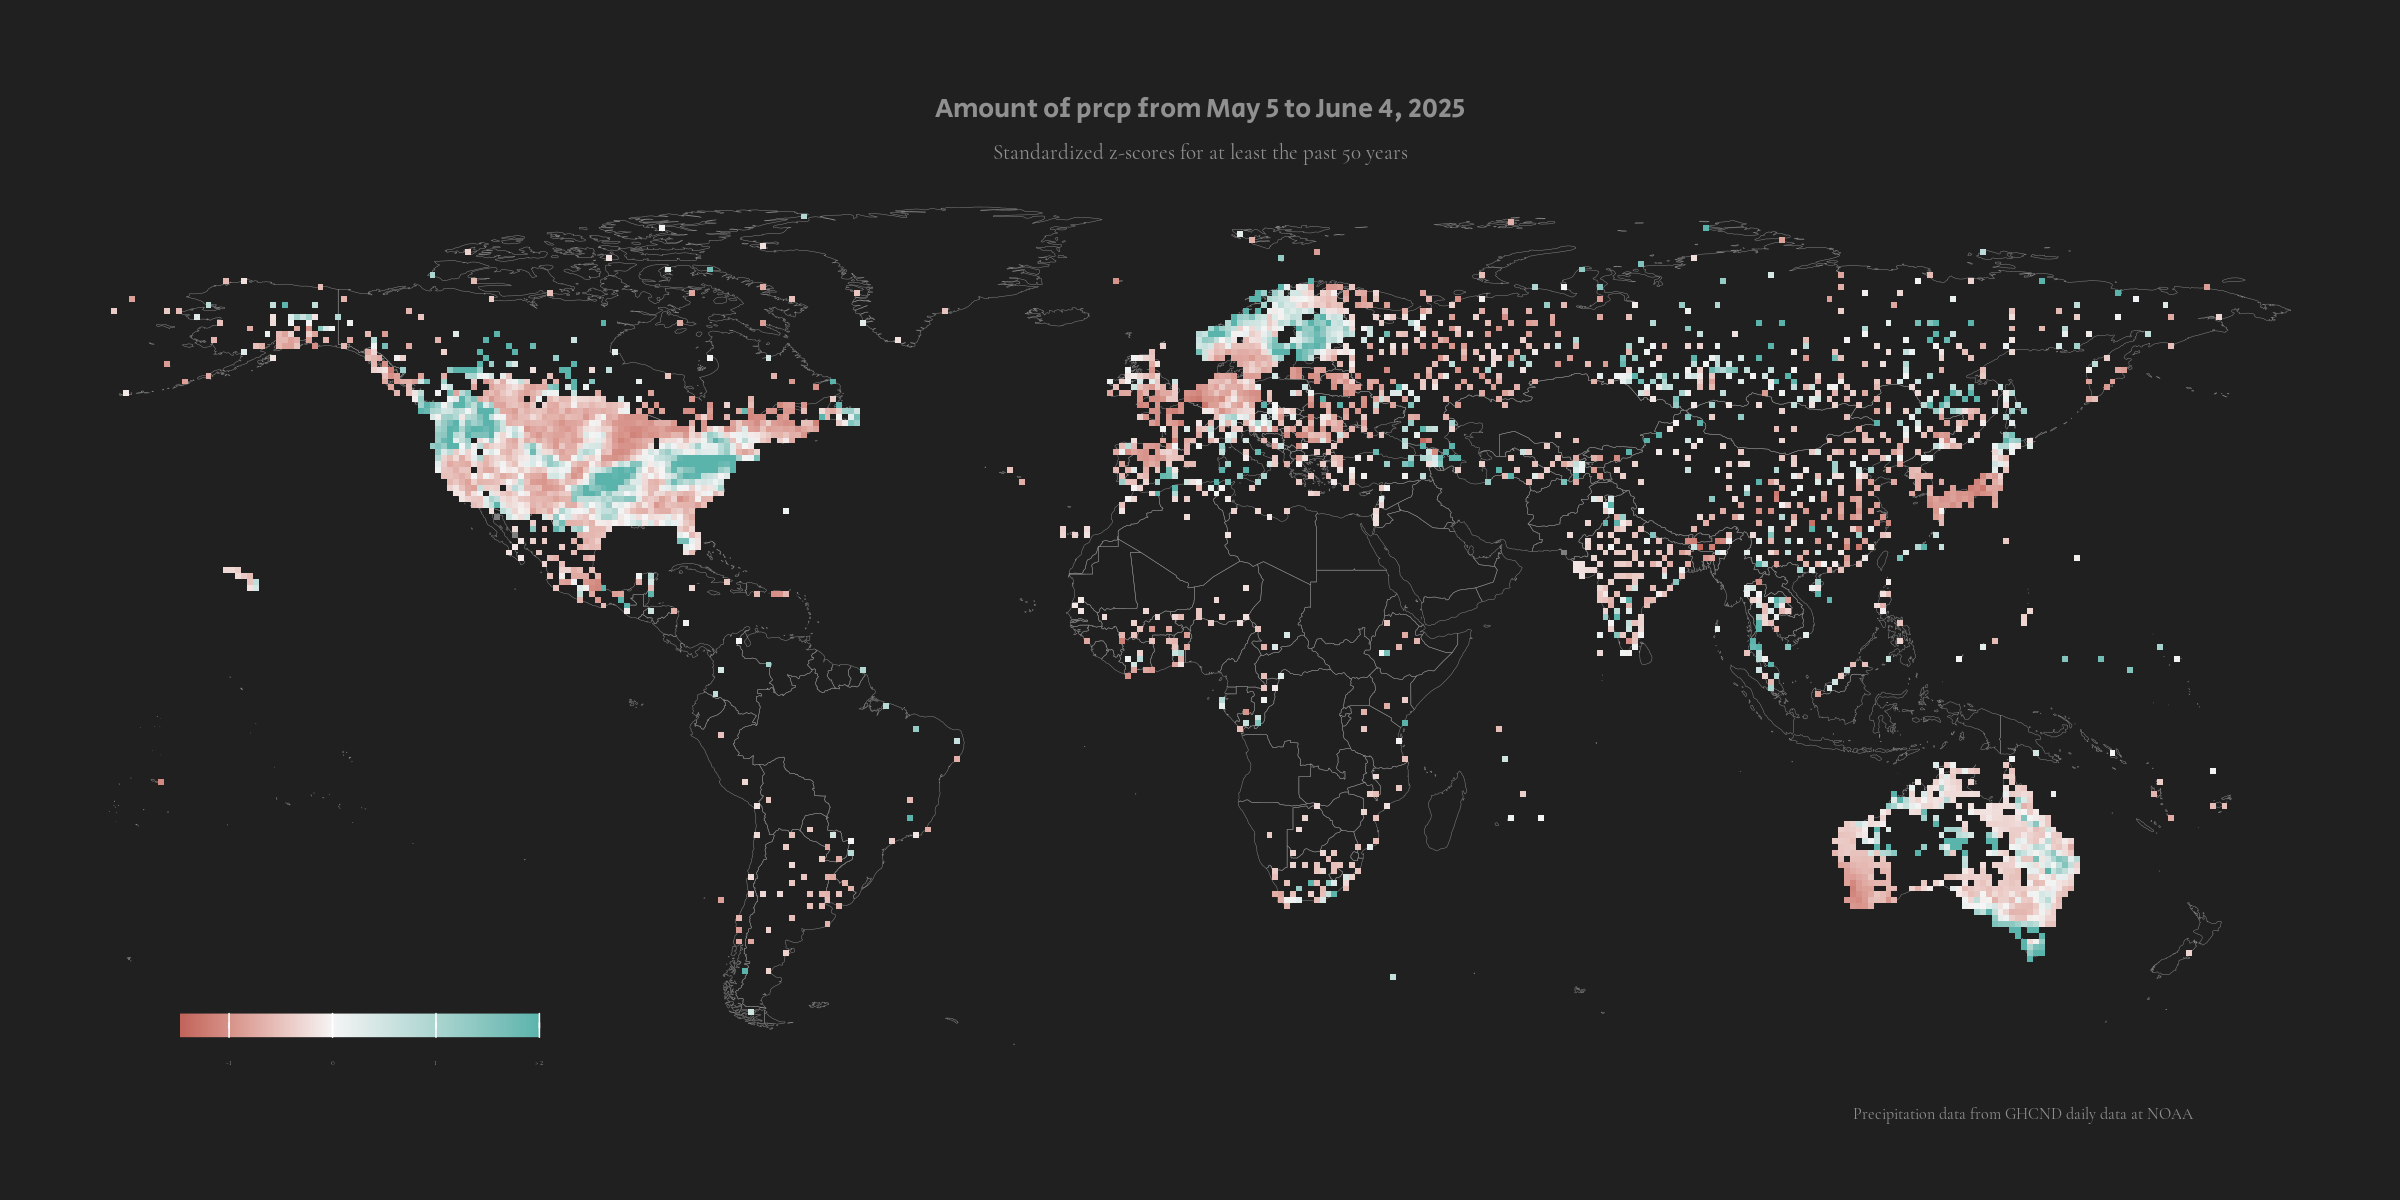
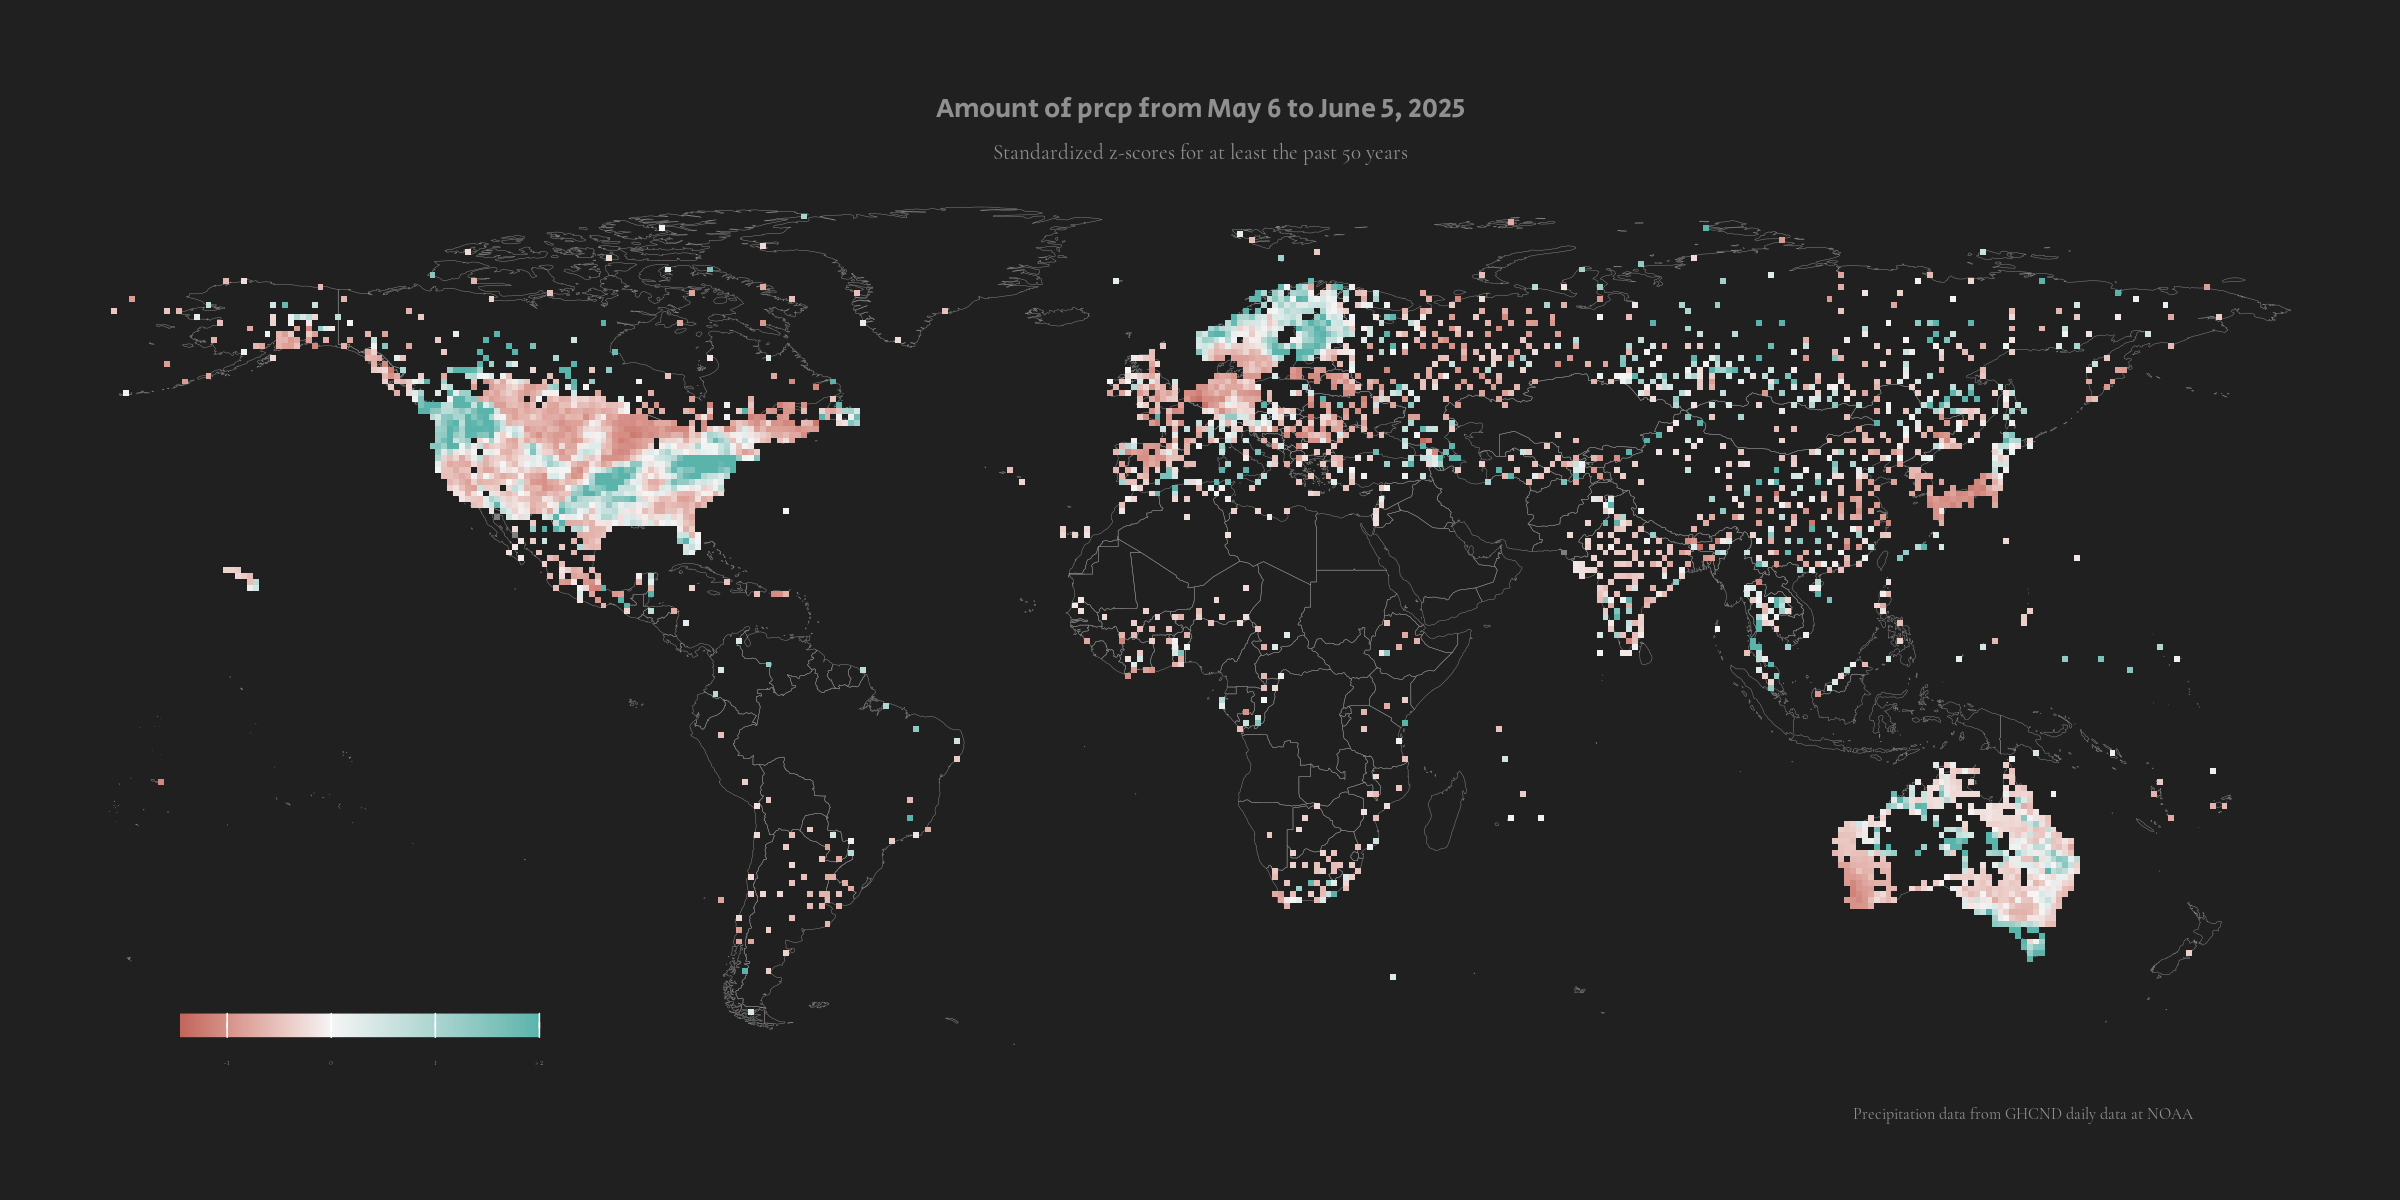
new day's rendering

diff --git a/index.html b/index.html
@@ -52,7 +52,7 @@ ul.task-list li input[type="checkbox"] {
 <div class="column-screen">
 <p><img src="visuals/heatmap_world_drought.png" class="img-fluid"></p>
 </div>
-<p>Last updated June 9, 2025.</p>
+<p>Last updated June 10, 2025.</p>
 <p>This <a href="https://esbenlykke.github.io/drought_index/">site</a> is part of a project to pratice reproducible research developed by <a href="mailto:%20eskovgaard@health.sdu.dk">Esben Lykke</a>.</p>
 
 </main>
